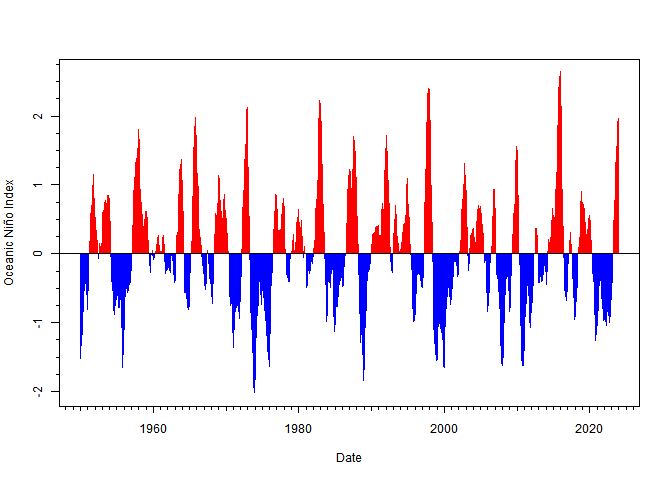
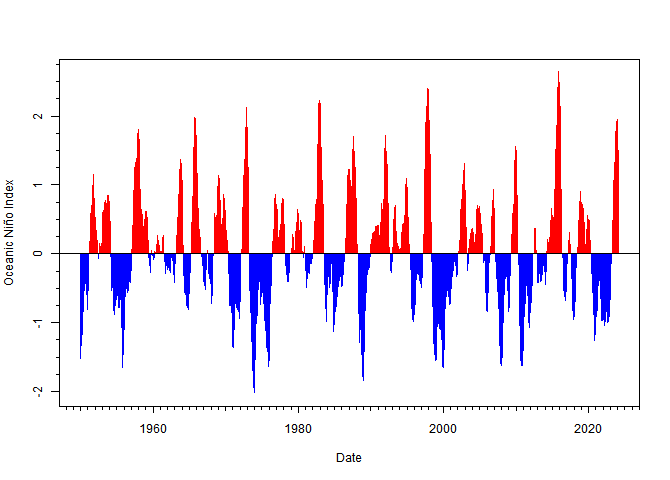
Updates for 7 of the indices (all except ALPI now reach into 2024); update help for mei as changed again; update README figures and NEWS; document().

diff --git a/README.md b/README.md
@@ -188,7 +188,7 @@ example:
 
 ``` r
 oni
-#> # A tibble: 889 × 4
+#> # A tibble: 890 × 4
 #>     year month value anomaly
 #>    <dbl> <dbl> <dbl>   <dbl>
 #>  1  1950     1  24.7   -1.53
@@ -201,7 +201,7 @@ oni
 #>  8  1950     8  26.0   -0.42
 #>  9  1950     9  25.8   -0.39
 #> 10  1950    10  25.6   -0.44
-#> # ℹ 879 more rows
+#> # ℹ 880 more rows
 ```
 
 **What climatic and oceanographic indices are currently available, and
@@ -214,8 +214,8 @@ knitr::kable(pacea_indices)
 | Object      | Description                                     | Resolution | Start year | End year |
 |:------------|:------------------------------------------------|:-----------|-----------:|---------:|
 | pdo         | Pacific Decadal Oscillation                     | monthly    |       1854 |     2024 |
-| npi_monthly | North Pacific Index (monthly)                   | monthly    |       1899 |     2023 |
-| npi_annual  | North Pacific Index (annual)                    | annual     |       1899 |     2023 |
+| npi_monthly | North Pacific Index (monthly)                   | monthly    |       1899 |     2024 |
+| npi_annual  | North Pacific Index (annual)                    | annual     |       1899 |     2024 |
 | alpi        | Aleutian Low Pressure Index                     | annual     |       1900 |     2022 |
 | oni         | Oceanic Niño Index                              | monthly    |       1950 |     2024 |
 | npgo        | North Pacific Gyre Oscillation                  | monthly    |       1950 |     2024 |

diff --git a/NEWS.md b/NEWS.md
@@ -5,6 +5,10 @@ Developers: for some general tips for writing good bullets see https://style.tid
 
 ## Updates by date
 
+* 2024-04-22 Monthly update: `buoy_sst`, and indices `ao`, `mei`, `npi_monthly`,
+  `npi_annual`, `oni`, `pdo`, and `soi`. NOTE: NOAA again recalculated the whole
+  time series for the MEI; see `?mei`.
+
 * 2024-04-17 Update `alpi` with values from 2016 to 2022.
 
 * 2024-04-12 New time series: zooplankton biomass anomalies for the Strait of Georgia,
